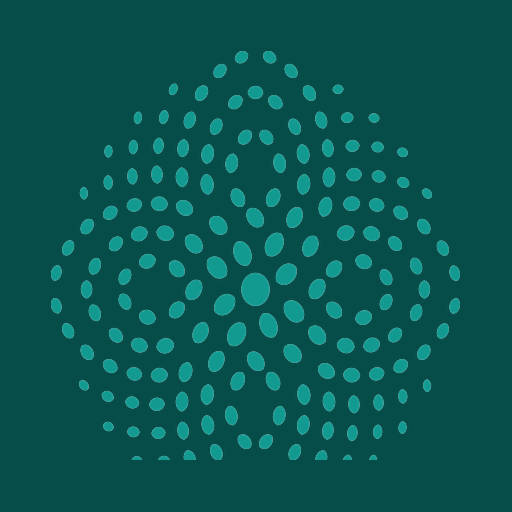
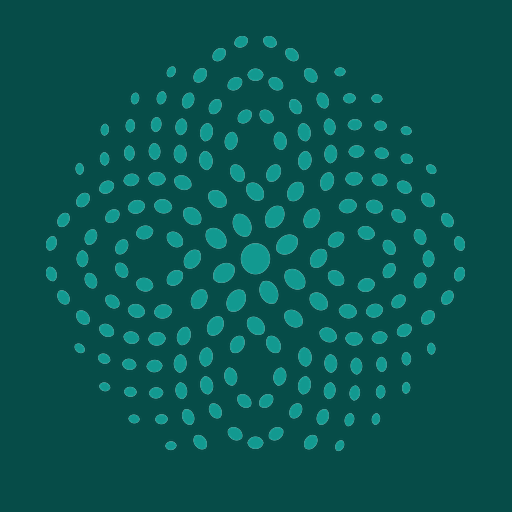
feat: login+regisztracio egy oldalon + telepites gomb bent + verzio lablegyre (v2.22.2)
Login kártya:
- Belépés | Regisztráció tab-ok egy oldalon
- Regisztrációs mezők: név* + email* + telefon (opt.)
- Sikeres regisztráció: inline success box kóddal + email-lel
- switchAuthTab(), doRegister(), _showLoginError() függvények

App (bejelentkezés után):
- 📲 Telepítés gomb a láblécben (only if installable)
- Verziószám a láblécben (nem a fejlécben)
- Fejléc: tiszta, verzió eltávolítva

Termék modal mobilon:
- mob-prod-info: min-height:44px, ℹ jobb oldalon
- touch-action: manipulation (-webkit-tap-highlight kiszedve)

Ikon: kevesebb crop, teljesebb logó látszik

Changed region(s): [[0.0938, 0.0625, 0.9062, 0.9062], [0.7812, 0.8125, 0.8125, 0.8438], [0.1875, 0.8125, 0.2188, 0.8438]]

diff --git a/vevo.html b/vevo.html
@@ -897,25 +897,64 @@ table.order-tbl {
     </g>
   </svg>
   <div class="login-card">
-    <div style="text-align:center;margin-bottom:24px">
-      <img src="img/logo_teal_vert.png" alt="KEREK" style="height:80px;width:auto">
-      <div style="font-size:0.62rem;color:var(--teal-mid);letter-spacing:2px;text-transform:uppercase;font-family:'Kodchasan',sans-serif;margin-top:8px">Megrendelő felület</div>
+    <div style="text-align:center;margin-bottom:20px">
+      <img src="img/logo_teal_vert.png" alt="KEREK" style="height:72px;width:auto">
     </div>
-    <div class="login-field">
-      <label>Belépési kód</label>
-      <input type="text" id="login-input" placeholder="Belépési kód, email vagy név" onkeydown="if(event.key==='Enter')doLogin()">
+
+    <!-- Tab switches -->
+    <div style="display:flex;border-radius:10px;background:var(--bg-soft);padding:3px;margin-bottom:20px;gap:2px">
+      <button id="tab-login-btn" onclick="switchAuthTab('login')"
+        style="flex:1;padding:8px;border:none;border-radius:8px;font-family:'Kodchasan',sans-serif;font-weight:700;font-size:0.88rem;cursor:pointer;background:white;color:var(--teal-dark);box-shadow:0 1px 3px rgba(0,0,0,0.1)">
+        Belépés
+      </button>
+      <button id="tab-reg-btn" onclick="switchAuthTab('register')"
+        style="flex:1;padding:8px;border:none;border-radius:8px;font-family:'Kodchasan',sans-serif;font-weight:400;font-size:0.88rem;cursor:pointer;background:transparent;color:var(--text-soft)">
+        Regisztráció
+      </button>
     </div>
-    <button class="btn btn-primary" style="width:100%;justify-content:center;padding:13px" onclick="doLogin()">Belépés →</button>
+
+    <!-- Belépés panel -->
+    <div id="auth-login-panel">
+      <div class="login-field">
+        <label>Belépési kód, email vagy név</label>
+        <input type="text" id="login-input" placeholder="pl. KER-XXXX-XXXX" onkeydown="if(event.key==='Enter')doLogin()" autocomplete="username">
+      </div>
+      <button class="btn btn-primary" style="width:100%;justify-content:center;padding:13px" onclick="doLogin()">Belépés →</button>
+    </div>
+
+    <!-- Regisztráció panel -->
+    <div id="auth-reg-panel" style="display:none">
+      <div class="login-field">
+        <label>Teljes neve *</label>
+        <input type="text" id="reg-name" placeholder="pl. Kovács Anna" autocomplete="name">
+      </div>
+      <div class="login-field">
+        <label>Email cím *</label>
+        <input type="email" id="reg-email" placeholder="pl. anna@email.com" autocomplete="email">
+      </div>
+      <div class="login-field">
+        <label>Telefonszám (opcionális)</label>
+        <input type="tel" id="reg-phone" placeholder="+40 745 289 063" autocomplete="tel">
+      </div>
+      <button class="btn btn-primary" id="reg-btn" style="width:100%;justify-content:center;padding:13px" onclick="doRegister()">Regisztráció →</button>
+    </div>
+
+    <!-- Shared: error + pwa + version -->
     <div id="login-error" style="color:#ef4444;font-size:0.82rem;margin-top:10px;text-align:center;min-height:20px;font-weight:600;display:none"></div>
-    <div id="vevo-version" style="text-align:center;margin-top:14px;font-size:0.62rem;color:#aaa;font-family:Kodchasan,sans-serif;letter-spacing:1px"></div>
-    <script>document.getElementById('vevo-version').textContent = typeof APP_VERSION !== 'undefined' ? APP_VERSION : '';</script>
-    <div id="pwa-install-bar" style="display:none;margin-top:16px;text-align:center">
-      <button onclick="installPWA()" style="background:var(--teal-dark);color:var(--gold);border:none;border-radius:10px;padding:10px 20px;font-family:'Kodchasan',sans-serif;font-size:0.85rem;font-weight:700;cursor:pointer;margin:0 auto;display:inline-flex;align-items:center;gap:8px">
+    <div id="reg-success" style="display:none;margin-top:12px;padding:14px;background:#f0fdf4;border-radius:10px;text-align:center">
+      <div style="font-size:1.5rem;margin-bottom:4px">🎉</div>
+      <div style="font-weight:700;color:#065f46;margin-bottom:4px">Sikeres regisztráció!</div>
+      <div style="font-size:0.78rem;color:#059669;margin-bottom:8px">A pékség hamarosan jóváhagyja a hozzáférésedet.</div>
+      <div style="font-size:0.72rem;color:var(--text-soft)">Belépési kódod:</div>
+      <div id="reg-code-display" style="font-family:monospace;font-size:1.1rem;font-weight:700;color:var(--teal-dark);margin:6px 0"></div>
+      <button onclick="navigator.clipboard.writeText(document.getElementById('reg-code-display').textContent).then(()=>this.textContent='✅ Másolva!')" style="font-size:0.75rem;padding:4px 12px;border:1px solid var(--border);border-radius:6px;background:white;cursor:pointer;font-family:'Kodchasan',sans-serif">📋 Kód másolása</button>
+      <div style="margin-top:8px;font-size:0.75rem;color:var(--text-soft)">Email: <span id="reg-email-display"></span></div>
+    </div>
+    <div id="pwa-install-bar" style="display:none;margin-top:14px;text-align:center">
+      <button onclick="installPWA()" style="background:var(--teal-dark);color:var(--gold);border:none;border-radius:10px;padding:9px 18px;font-family:'Kodchasan',sans-serif;font-size:0.82rem;font-weight:700;cursor:pointer;display:inline-flex;align-items:center;gap:6px">
         📲 Telepítés a telefonra
       </button>
-      <div style="font-size:0.7rem;color:var(--text-soft);margin-top:6px">Egy kattintással a kezdőképernyőre</div>
     </div>
-    <div class="login-hint">Lépj be a kódoddal, email címeddel vagy neveddel.</div>
   </div>
 </div>
 
@@ -923,8 +962,7 @@ table.order-tbl {
 <header class="header">
   <img src="img/logo_white_horiz.png" alt="KEREK" style="height:30px;width:auto;cursor:pointer" onclick="location.href='index.html'" title="Főmenü">
   <div class="user-info">
-    <span id="version-badge" style="font-size:0.62rem;color:var(--text-soft);font-family:Kodchasan,sans-serif;letter-spacing:0.5px;background:rgba(0,0,0,0.08);padding:2px 8px;border-radius:20px"></span>
-    <span class="user-name" id="user-badge"></span>
+<span class="user-name" id="user-badge"></span>
     <button id="push-btn" onclick="togglePushSubscription()" title="Értesítések" style="background:none;border:none;cursor:pointer;font-size:1.2rem;padding:4px 8px;opacity:0.7;display:none">🔔</button>
     <button class="btn btn-logout" onclick="logout()">Kilépés</button>
   </div>
@@ -1164,5 +1202,9 @@ table.order-tbl {
 <script src="js/vevo-data.js?v=2.22.2"></script>
 <script src="js/vevo-ui.js?v=2.22.2"></script>
 <script src="js/vevo-orders.js?v=2.22.2"></script>
+<div id="app-footer" style="display:none;text-align:center;padding:10px 16px 20px;border-top:1px solid var(--border)">
+  <button id="footer-install-btn" onclick="installPWA()" style="display:none;margin-bottom:8px;font-size:0.78rem;padding:6px 14px;background:var(--teal-dark);color:var(--gold);border:none;border-radius:8px;cursor:pointer;font-family:'Kodchasan',sans-serif;font-weight:600">📲 Telepítés a telefonra</button>
+  <div id="footer-version" style="font-size:0.65rem;color:var(--text-soft);letter-spacing:0.5px"></div>
+</div>
 </body>
 </html>

diff --git a/js/vevo-data.js b/js/vevo-data.js
@@ -1,15 +1,104 @@
 
+// ===== AUTH TABS =====
+function switchAuthTab(tab) {
+  const isLogin = tab === 'login';
+  document.getElementById('auth-login-panel').style.display = isLogin ? 'block' : 'none';
+  document.getElementById('auth-reg-panel').style.display = isLogin ? 'none' : 'block';
+  document.getElementById('reg-success').style.display = 'none';
+  document.getElementById('login-error').style.display = 'none';
+  // Tab button styles
+  const loginBtn = document.getElementById('tab-login-btn');
+  const regBtn = document.getElementById('tab-reg-btn');
+  if (loginBtn) {
+    loginBtn.style.background = isLogin ? 'white' : 'transparent';
+    loginBtn.style.color = isLogin ? 'var(--teal-dark)' : 'var(--text-soft)';
+    loginBtn.style.fontWeight = isLogin ? '700' : '400';
+    loginBtn.style.boxShadow = isLogin ? '0 1px 3px rgba(0,0,0,0.1)' : 'none';
+  }
+  if (regBtn) {
+    regBtn.style.background = !isLogin ? 'white' : 'transparent';
+    regBtn.style.color = !isLogin ? 'var(--teal-dark)' : 'var(--text-soft)';
+    regBtn.style.fontWeight = !isLogin ? '700' : '400';
+    regBtn.style.boxShadow = !isLogin ? '0 1px 3px rgba(0,0,0,0.1)' : 'none';
+  }
+}
+
+function _genCode() {
+  const chars = 'ABCDEFGHJKLMNPQRSTUVWXYZ23456789';
+  const seg = () => Array.from({length:4}, () => chars[Math.floor(Math.random()*chars.length)]).join('');
+  return `KER-${seg()}-${seg()}`;
+}
+
+const _regAttempts = { count: 0, resetAt: 0 };
+
+async function doRegister() {
+  const now = Date.now();
+  if (now > _regAttempts.resetAt) { _regAttempts.count = 0; _regAttempts.resetAt = now + 60000; }
+  if (++_regAttempts.count > 5) {
+    _showLoginError(`⚠ Túl sok próbálkozás. Várj ${Math.ceil((_regAttempts.resetAt - now)/1000)} másodpercet.`);
+    return;
+  }
+  const name  = (document.getElementById('reg-name')?.value || '').trim();
+  const email = (document.getElementById('reg-email')?.value || '').trim();
+  const phone = (document.getElementById('reg-phone')?.value || '').trim();
+  _showLoginError('');
+  if (!name)  { _showLoginError('⚠ Add meg a nevedet!'); return; }
+  if (!email) { _showLoginError('⚠ Add meg az email címedet!'); return; }
+  if (!email.includes('@') || !email.includes('.')) { _showLoginError('⚠ Érvénytelen email cím!'); return; }
+
+  const btn = document.getElementById('reg-btn');
+  if (btn) { btn.disabled = true; btn.textContent = '⏳ Feldolgozás...'; }
+
+  try {
+    // Check duplicate email
+    const existing = await sb.query('clients', { filter: `email=eq.${encodeURIComponent(email)}`, limit: 1 });
+    if (existing && existing.length > 0) {
+      const ex = existing[0];
+      _showLoginError(ex.name.startsWith('[DELETED]')
+        ? '⚠ Ez az email cím egy deaktivált fiókhoz tartozik. Keresd fel a pékséget.'
+        : '⚠ Ez az email cím már regisztrálva van! Lépj be az email címeddel.');
+      if (btn) { btn.disabled = false; btn.textContent = 'Regisztráció →'; }
+      return;
+    }
+    const code = _genCode();
+    await sb.insert('clients', { id: code, name: '[PENDING] ' + name, email, phone: phone || null });
+    // Show success
+    document.getElementById('auth-reg-panel').style.display = 'none';
+    document.getElementById('reg-code-display').textContent = code;
+    document.getElementById('reg-email-display').textContent = email;
+    document.getElementById('reg-success').style.display = 'block';
+  } catch(e) {
+    const msg = e.message || JSON.stringify(e);
+    _showLoginError(msg.includes('unique') || msg.includes('23505')
+      ? '⚠ Ez az email cím már regisztrálva van!'
+      : '⚠ Hiba: ' + msg);
+    if (btn) { btn.disabled = false; btn.textContent = 'Regisztráció →'; }
+  }
+}
+
+function _showLoginError(msg) {
+  const el = document.getElementById('login-error');
+  if (!el) return;
+  el.textContent = msg;
+  el.style.display = msg ? 'block' : 'none';
+}
+
+
 // ===== PWA INSTALL =====
 let _pwaInstallPrompt = null;
 window.addEventListener('beforeinstallprompt', e => {
   e.preventDefault();
   _pwaInstallPrompt = e;
-  const bar = document.getElementById('pwa-install-bar');
-  if (bar) bar.style.display = 'block';
+  ['pwa-install-bar','footer-install-btn'].forEach(id => {
+    const el = document.getElementById(id);
+    if (el) el.style.display = id === 'footer-install-btn' ? 'inline-flex' : 'block';
+  });
 });
 window.addEventListener('appinstalled', () => {
-  const bar = document.getElementById('pwa-install-bar');
-  if (bar) bar.style.display = 'none';
+  ['pwa-install-bar','footer-install-btn'].forEach(id => {
+    const el = document.getElementById(id);
+    if (el) el.style.display = 'none';
+  });
   _pwaInstallPrompt = null;
 });
 async function installPWA() {
@@ -154,8 +243,9 @@ async function doLogin() {
   }
   if (client && client.name && client.name.startsWith('[DELETED]')) {
     const _errEl = document.getElementById('login-error');
-    if(_errEl) { _errEl.textContent = '❌ Ez a fiók deaktiválva lett. Vedd fel a kapcsolatot a KEREK pékséggel.'; _errEl.style.display='block'; }
-    return;
+    if(true) { _showLoginError('❌ Ez a fiók deaktiválva lett. Vedd fel a kapcsolatot a KEREK pékséggel.'); }
+
+    if(true) { _showLoginError('❌ Ez a fiók deaktiválva lett. Vedd fel a kapcsolatot a KEREK pékséggel.'); }
   }
   if (client) {
     currentUser = client;
@@ -295,3 +385,9 @@ async function updatePushBtn() {
   else if (sub) { btn.style.opacity = '1'; btn.title = 'Értesítések bekapcsolva – kattints a kikapcsoláshoz'; btn.textContent = '🔔'; }
   else { btn.style.opacity = '0.5'; btn.title = 'Kattints az értesítések bekapcsolásához'; btn.textContent = '🔔'; }
 }
+
+// Footer version + install btn
+document.addEventListener('DOMContentLoaded', () => {
+  const fv = document.getElementById('footer-version');
+  if (fv) fv.textContent = typeof APP_VERSION !== 'undefined' ? APP_VERSION : '';
+});

diff --git a/js/vevo-orders.js b/js/vevo-orders.js
@@ -464,10 +464,9 @@ function renderMobileOrderCards() {
             ${prods.map(p => {
               const qty = rowOrders[p.id] || 0;
               return `<div class="mob-product-row">
-                <div class="mob-prod-info" onclick="showProductModal(${p.id})">
-                  <div class="mob-prod-name">${esc(p.name)}</div>
-                  <div class="mob-prod-weight">${esc(p.weight)}</div>
-                  <div class="mob-prod-price">${p.price} lej/db ℹ</div>
+                <div class="mob-prod-info" onclick="showProductModal(${p.id})" style="display:flex;align-items:center;justify-content:space-between;gap:6px;min-height:44px">
+                  <div><div class="mob-prod-name">${esc(p.name)}</div><div class="mob-prod-weight">${esc(p.weight)}</div><div class="mob-prod-price">${p.price} lej/db</div></div>
+                  <span style="font-size:1.1rem;flex-shrink:0;padding:4px;color:var(--teal)">ℹ</span>
                 </div>
                 <div class="mob-qty-control">
                   <button class="mob-qty-btn" onclick="mobChangeQty(${day},${p.id},-1)">−</button>
